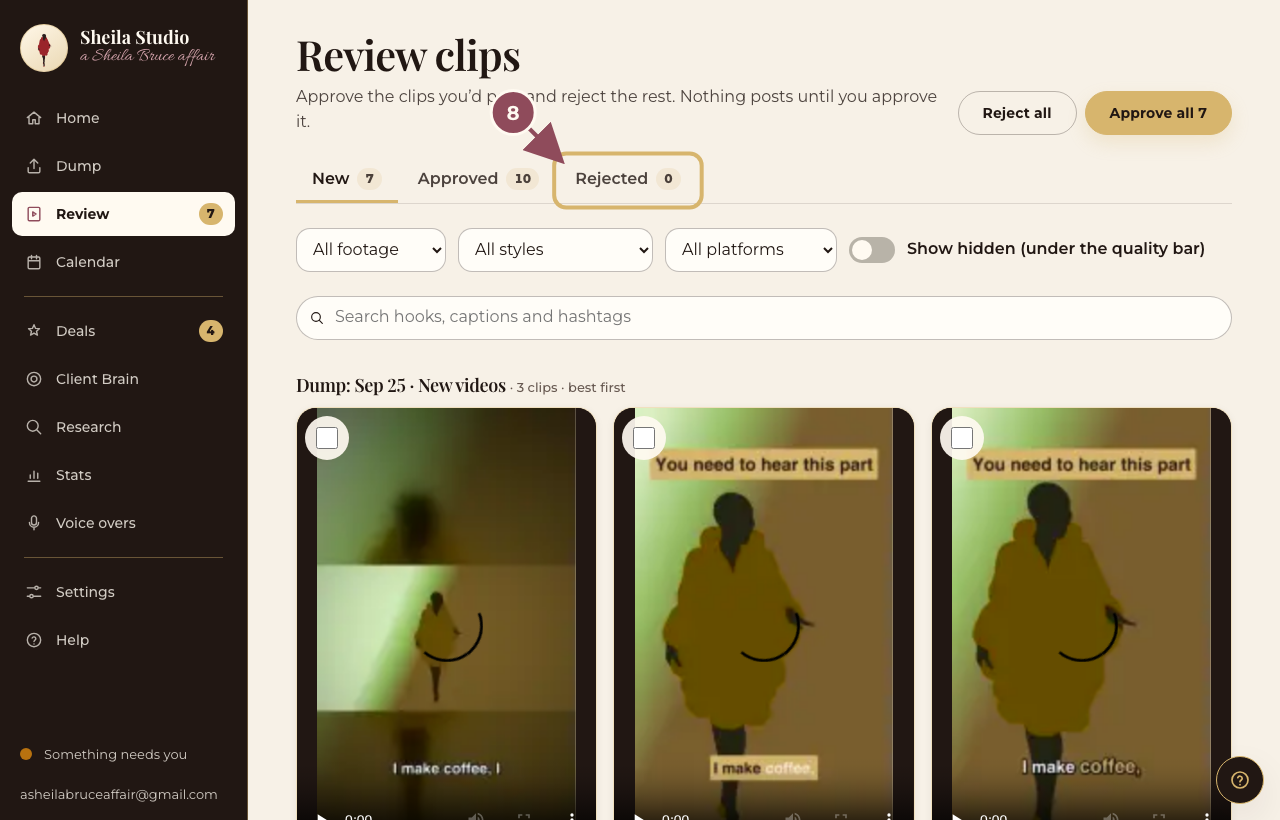
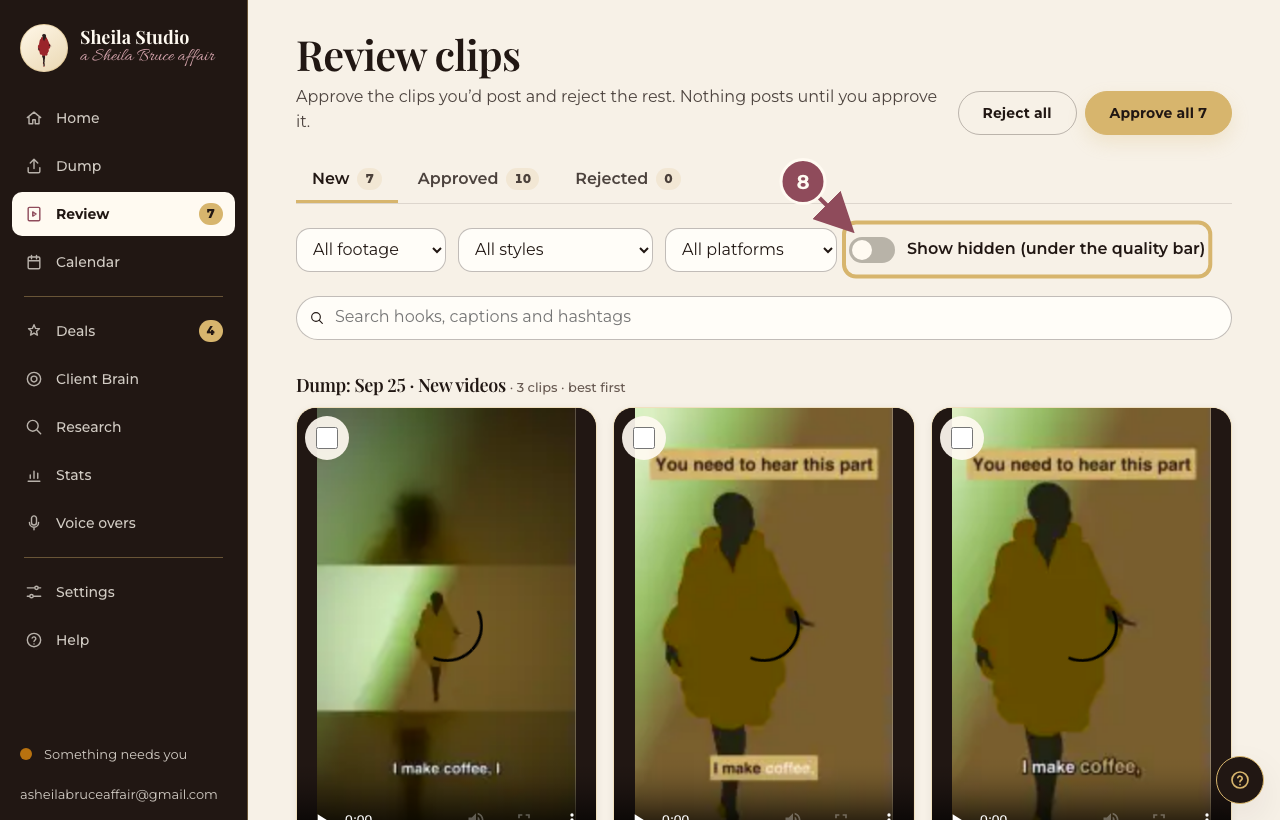
Help: review guide keeps 8 steps (voice over in one step)
Claude-Session: https://claude.ai/code/session_0198aZUrMGZdHeBFG3uvPqJs

Changed region(s): [[0.5938, 0.1829, 0.9375, 0.3659], [0.375, 0.0915, 0.5625, 0.2744], [0.9375, 0.2744, 0.9688, 0.3354]]

diff --git a/help/guides/review-and-approve-clips.md b/help/guides/review-and-approve-clips.md
@@ -45,28 +45,21 @@ Happy with everything? Tap **Approve all** at the top, or tick a few clips and u
 ## Add a voice over
 
 ![Step 6](/help/screenshots/review-and-approve-clips-6.png)
-<!-- target: [data-clip-id="demo_new_1"] [aria-label="Voice over"] -->
-
-**Add voice over** puts a short voice over in your voice on just this clip. A clip that already has one shows **Remove voice over** and **Redo voice over**.
-
-## Edit the script
-
-![Step 7](/help/screenshots/review-and-approve-clips-7.png)
 <!-- click: [data-clip-id="demo_new_1"] >> role=button[name="Add voice over"] -->
 <!-- target: #v-script -->
 
-Change the words as you like; it fits the clip's length. It is labelled as AI audio when it posts.
+**Add voice over** puts a short voice over in your voice on just this clip: change the words as you like, it fits the clip's length and is labelled as AI audio when it posts. A clip that already has one shows **Remove voice over** and **Redo voice over**.
 
 ## Changed your mind?
 
-![Step 8](/help/screenshots/review-and-approve-clips-8.png)
+![Step 7](/help/screenshots/review-and-approve-clips-7.png)
 <!-- target: .review-tab >> nth=2 -->
 
 Open **Rejected** to bring a clip back. Rejected clips are removed after 7 days.
 
 ## See the lower-scoring clips
 
-![Step 9](/help/screenshots/review-and-approve-clips-9.png)
+![Step 8](/help/screenshots/review-and-approve-clips-8.png)
 <!-- target: label.switch:has-text("Show hidden") -->
 
 Switch on **Show hidden** to see clips under the quality bar too.
